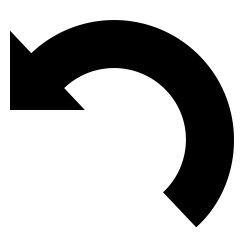
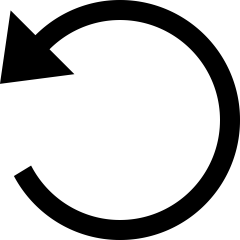
Created new buttons, modified some.

diff --git a/main.py b/main.py
@@ -23,7 +23,7 @@ end_date = '2006-10-22'
 
 # image_query.query(start_date, end_date)
 
-image = cv2.imread('test.jpg', 0)
+image = cv2.imread('car.jpg', 0)
 # cartoon = image_editor.cartoonify(image, 0, 100)
 # cv2.imwrite('cartoon.png', cartoon)
 
@@ -36,7 +36,7 @@ image = cv2.imread('test.jpg', 0)
 #
 # cv2.imwrite('blend.png', blended)
 
-# img = image_editor.dither(image, 500)
+# img = image_editor.dither(image, 80)
 # cv2.imwrite('dithered.png', img)
 
 # img = image_editor.add_Gaussian_noise(image, 50)
@@ -52,7 +52,7 @@ image = cv2.imread('test.jpg', 0)
 # cv2.imwrite('noisyimage.png', img)
 
 # img = image_editor.negative_color_picture(image)
-# cv2.imwrite('noisyimage.png', img)
+# cv2.imwrite('neg.png', img)
 
 # img = image_editor.gamma_correction(image, 0.5)
 # cv2.imwrite('gamma_corrected.png', img)
@@ -66,4 +66,10 @@ image = cv2.imread('test.jpg', 0)
 # img = image_editor.saltnpepper_noise_single_channel(image, 0.6, 255,0)
 # cv2.imwrite('gamma_corrected.png', img)
 
-cv2.imwrite('bw.png', image)
+# cv2.imwrite('bw.png', image)
+
+# img = image_editor.intensity_map(image, 11)
+# cv2.imwrite('heatmap.png', img)
+
+img = image_editor.edge_detection(image, 100, 200)
+cv2.imwrite('canny.png', img)
